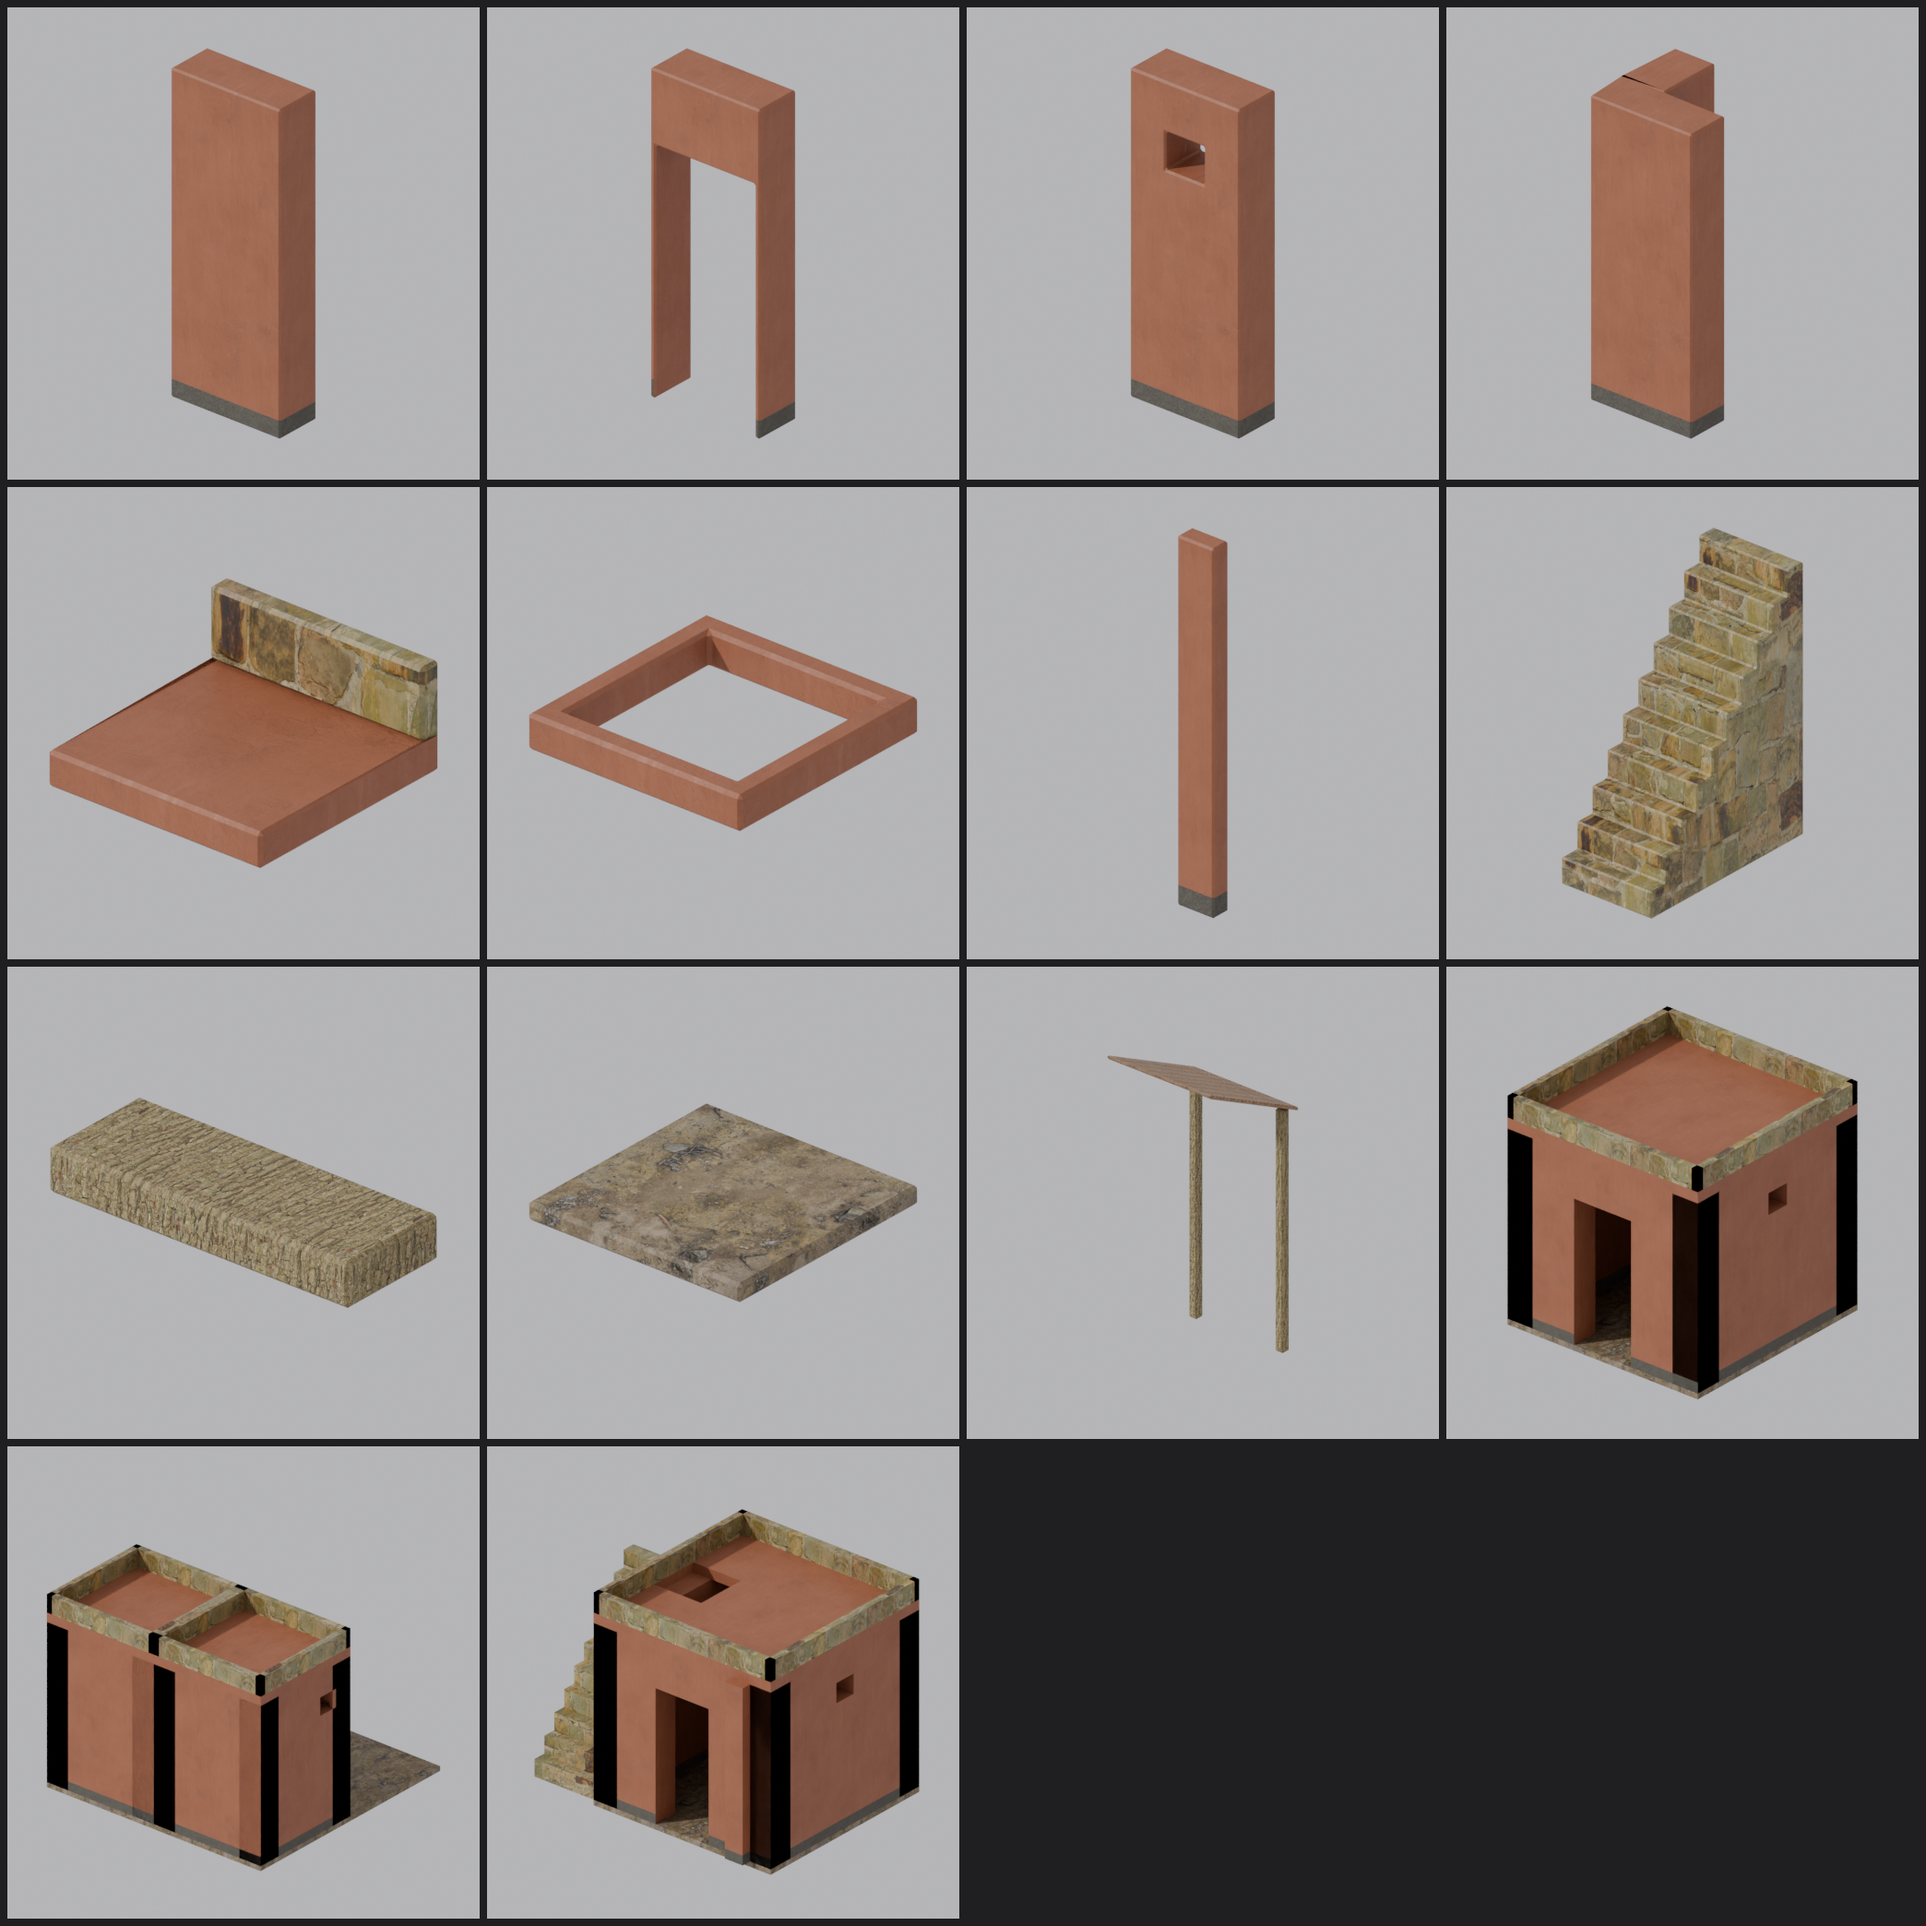
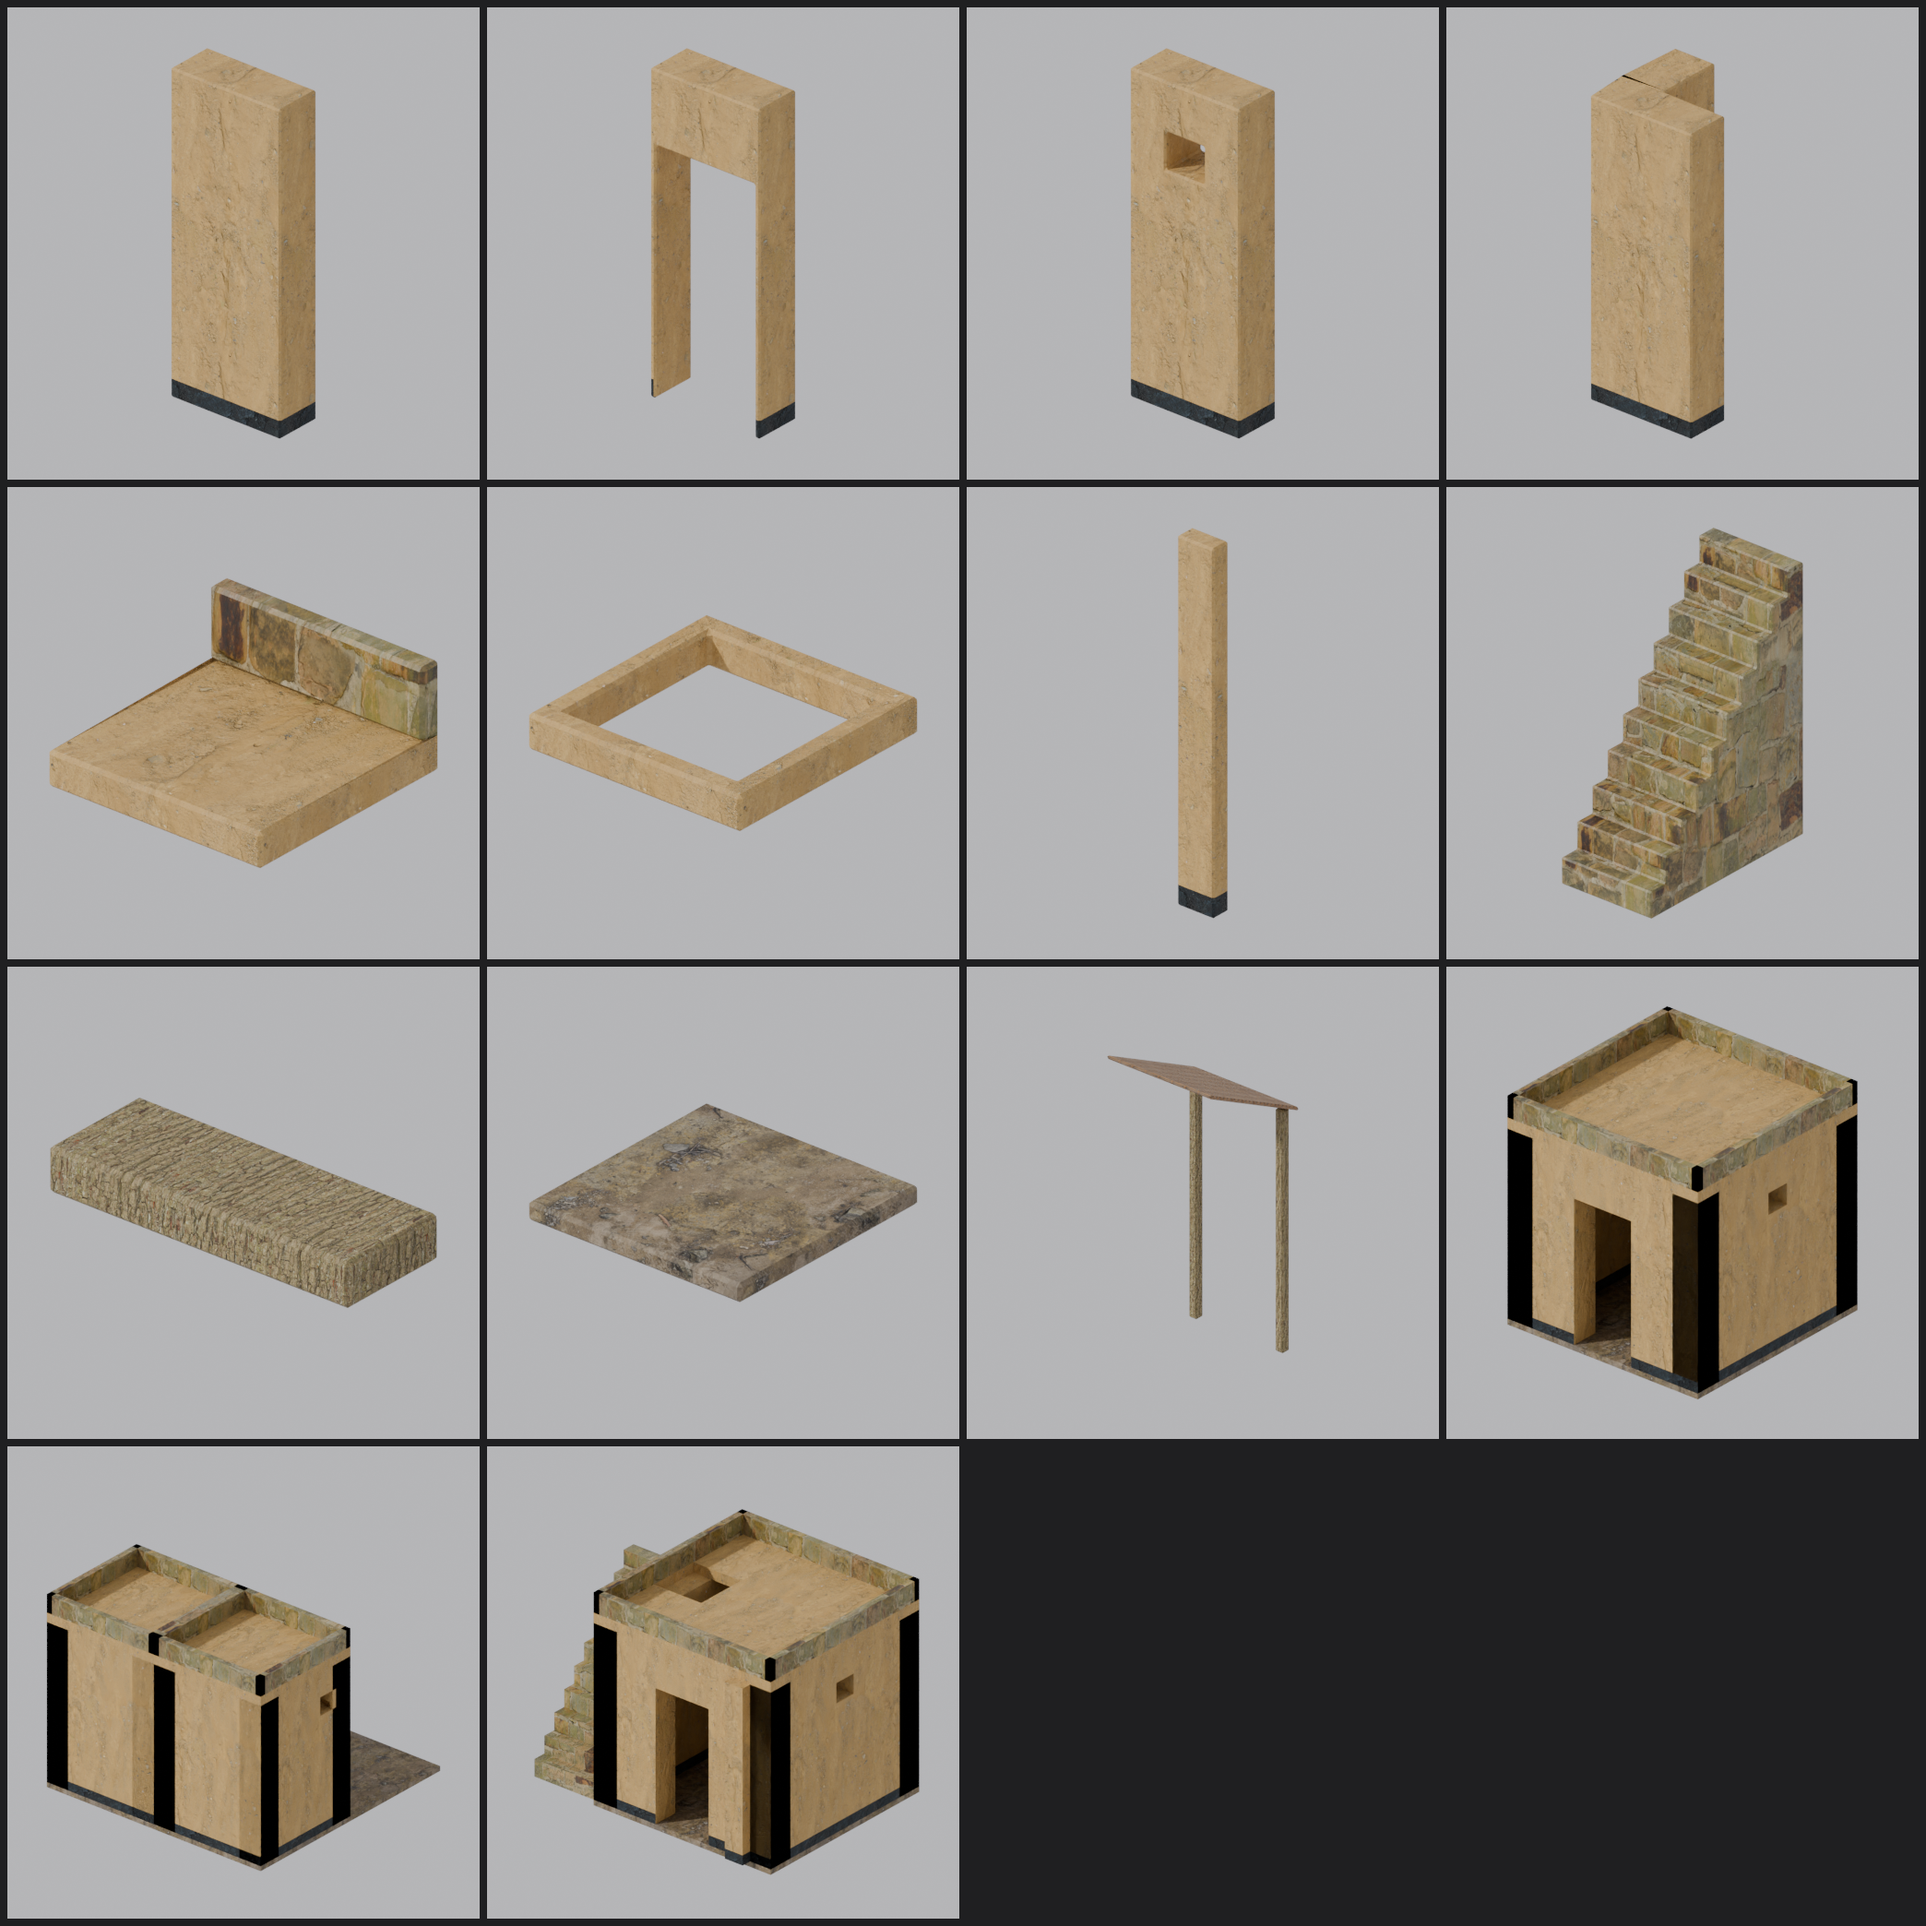
WIP (stopped by designer request): uncommitted agent work saved by coordinator

diff --git a/tools/art/check_kit.py b/tools/art/check_kit.py
@@ -11,6 +11,10 @@ Re-imports each exported piece (both FBX and GLB must exist) and checks:
   4. UV0 (texturing) and UV1 (lightmap) are both present
   5. material slots are named (all M_* slots, matching kit_common.MAT_DEFS)
 
+  6. every material referenced by kit_common.TEX_DEFS has its 4 PBR maps
+     (Color, NormalGL, Roughness, AmbientOcclusion) present on disk under
+     art/source/ (tools/art/fetch_textures.py)
+
 Then, for each of the 3 example houses, rebuilds it pre-join (via
 assemble_house.HOUSE_OBJS_BUILDERS) and checks the assembly itself:
   6. no floaters — every placed piece's bounding box must touch another
@@ -113,6 +117,23 @@ def check_piece(name, budget_key, out_dir, failures):
           f"uvs={len(mesh.uv_layers)}, mats={[m.name for m in mesh.materials]}")
 
 
+def check_material_textures(failures):
+    """Every material in kit_common.TEX_DEFS must have all 4 PBR maps on
+    disk (tools/art/fetch_textures.py) -- checks kc.ft.map_path(...) exists
+    for each map type, for every material slot name, not just that the
+    asset directory exists."""
+    for name, spec in kc.TEX_DEFS.items():
+        asset_id = spec["asset_id"]
+        for m in kc.ft.MAP_TYPES:
+            p = kc.ft.map_path(asset_id, m)
+            if not os.path.exists(p) or os.path.getsize(p) == 0:
+                failures.append(
+                    f"material {name} ({asset_id}): missing map file {p} "
+                    f"-- run tools/art/fetch_textures.py"
+                )
+    print(f"checked textures for {len(kc.TEX_DEFS)} materials")
+
+
 def world_bbox(obj):
     corners = [obj.matrix_world @ Vector(c) for c in obj.bound_box]
     xs = [c.x for c in corners]
@@ -204,6 +225,8 @@ def main():
 
     for name, budget_key in name_to_budget.items():
         check_piece(name, budget_key, out_dir, failures)
+
+    check_material_textures(failures)
 
     for house_name, build_objs_fn in ah.HOUSE_OBJS_BUILDERS:
         kc.clear_scene()

diff --git a/tools/art/kit_common.py b/tools/art/kit_common.py
@@ -382,12 +382,44 @@ def export_piece(obj, out_dir):
         axis_up="Y",
         object_types={"MESH"},
         use_mesh_modifiers=True,
+        path_mode="COPY",
+        embed_textures=True,
     )
     glb_path = os.path.join(mesh_dir, f"{obj.name}.glb")
     bpy.ops.export_scene.gltf(
         filepath=glb_path, use_selection=True, export_format="GLB"
     )
     return fbx_path, glb_path
+
+
+def copy_textures_for_export(out_dir):
+    """Copy every fetched PBR map into <out_dir>/meshes/textures/<asset_id>/
+    so an FBX/GLB import has the source maps sitting right next to the mesh.
+
+    ponytail: the triplanar node graph in _triplanar_pbr is a Cycles/EEVEE
+    shader-node technique with no FBX or glTF equivalent -- both exporters
+    only understand a single Image Texture wired straight into a PBR slot,
+    so FBX's own embed_textures finds nothing to embed (the graph is too
+    indirect for its heuristic) and a reimport elsewhere gets the flat
+    MAT_DEFS fallback colour, not the photo texture. Copying the raw maps
+    here means the maps are still right there to hand-wire in whatever
+    imports the mesh. Proper fix, if an engine needs the real look
+    on import: bake each piece's triplanar result down to its own UV0 map
+    (Cycles bake to image) and export *that* single texture instead.
+    """
+    import shutil
+    tex_dir = os.path.join(out_dir, "meshes", "textures")
+    for name, spec in TEX_DEFS.items():
+        asset_id = spec["asset_id"]
+        if not ft.already_fetched(asset_id):
+            continue
+        dest = os.path.join(tex_dir, asset_id)
+        os.makedirs(dest, exist_ok=True)
+        for m in ft.MAP_TYPES:
+            src = ft.map_path(asset_id, m)
+            dst = os.path.join(dest, os.path.basename(src))
+            if not os.path.exists(dst) or os.path.getsize(dst) != os.path.getsize(src):
+                shutil.copy2(src, dst)
 
 
 def clear_scene():

diff --git a/tools/art/fetch_textures.py b/tools/art/fetch_textures.py
@@ -107,22 +107,30 @@ def fetch_one(name, spec):
 
 
 def _update_assets_csv(rows):
+    """Append new texture_map rows, and overwrite any existing row with the
+    same id in place (so swapping an asset choice -- e.g. M_MudPlaster from
+    Clay001 to Ground087 -- updates the recorded file/source_ref rather than
+    leaving a stale row behind)."""
     path = os.path.join(REPO_ROOT, "art", "assets.csv")
-    existing_ids = set()
+    by_id = {}
+    header = ["id", "file", "kind", "license", "source_ref", "tag"]
+    order = []
     if os.path.exists(path):
         with open(path, newline="") as f:
-            for r in csv.DictReader(f):
-                existing_ids.add(r["id"])
-    new_rows = [r for r in rows if r[0] not in existing_ids]
-    if not new_rows:
-        return
-    is_new = not os.path.exists(path)
-    with open(path, "a", newline="") as f:
+            reader = csv.reader(f)
+            header = next(reader)
+            for r in reader:
+                by_id[r[0]] = r
+                order.append(r[0])
+    for r in rows:
+        if r[0] not in by_id:
+            order.append(r[0])
+        by_id[r[0]] = r
+    with open(path, "w", newline="") as f:
         w = csv.writer(f)
-        if is_new:
-            w.writerow(["id", "file", "kind", "license", "source_ref", "tag"])
-        for r in new_rows:
-            w.writerow(r)
+        w.writerow(header)
+        for rid in order:
+            w.writerow(by_id[rid])
 
 
 def main():

diff --git a/tools/art/house_kit.py b/tools/art/house_kit.py
@@ -222,6 +222,7 @@ def main():
             ]
         )
     write_manifest_rows(manifest_rows)
+    kc.copy_textures_for_export(out_dir)
     print(f"House kit: {len(PIECES)} pieces exported to {out_dir}")
 
 
